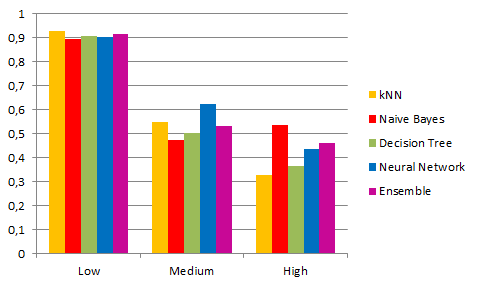
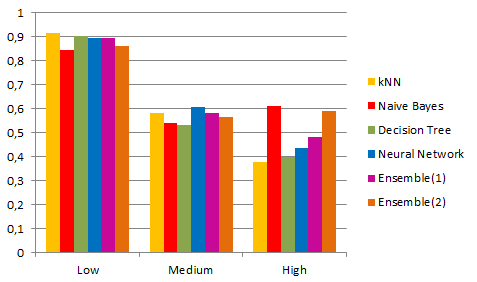
changed charts and tables

diff --git a/presentation/article/experimental-results.tex b/presentation/article/experimental-results.tex
@@ -29,10 +29,10 @@ The results of k-Nearest Neighbors are shown in \fref{tab:mat-knn}.
 	\resizebox{\columnwidth}{!}{
 	\begin{tabular}[c]{c|ccc||c}
 		classified \(\rightarrow\) & \textbf{Low} & \textbf{Medium} & \textbf{High} & Total\\ \hline
-		Low & \textcolor{blue}{1167} & 87 & 5 & 1259 \\
-		Medium & 203 & \textcolor{blue}{287} & 32 & 522 \\
-		High & 23 & 120 & \textcolor{blue}{70} & 213 \\ \hline \hline
-		Total & 1393 & 494 & 107 & 1994 \\
+		Low & \textcolor{blue}{1155} & 101 & 3 & 1259 \\
+		Medium & 181 & \textcolor{blue}{304} & 37 & 522 \\
+		High & 21 & 112 & \textcolor{blue}{80} & 213 \\ \hline \hline
+		Total & 1357 & 517 & 120 & 1994 \\
 	\end{tabular}
 }
 \end{table}
@@ -45,10 +45,10 @@ The results of the Na\"ive Bayes classifier are shown in \fref{tab:mat-nb}.
 	\resizebox{\columnwidth}{!}{
 	\begin{tabular}[c]{c|ccc||c}
 		classified \(\rightarrow\) & \textbf{Low} & \textbf{Medium} & \textbf{High} & Total\\ \hline
-		Low & \textcolor{blue}{1127} & 120 & 12 & 1259 \\
-		Medium & 189 & \textcolor{blue}{248} & 85 & 522 \\
-		High & 23 & 76 & \textcolor{blue}{114} & 213 \\ \hline \hline
-		Total & 1339 & 444 & 181 & 1994 \\
+		Low & \textcolor{blue}{1063} & 183 & 13 & 1259 \\
+		Medium & 137 & \textcolor{blue}{282} & 103 & 522 \\
+		High & 15 & 68 & \textcolor{blue}{130} & 213 \\ \hline \hline
+		Total & 1215 & 533 & 246 & 1994 \\
 	\end{tabular}
 }
 \end{table}
@@ -61,10 +61,10 @@ The confusion matrix of the decision tree is illustrated in \fref{tab:mat-tree}.
 	\resizebox{\columnwidth}{!}{
 	\begin{tabular}[c]{c|ccc||c}
 		classified \(\rightarrow\) & \textbf{Low} & \textbf{Medium} & \textbf{High} & Total\\ \hline
-		Low & \textcolor{blue}{1141} & 208 & 10 & 1259 \\
-		Medium & 200 & \textcolor{blue}{263} & 59 & 522 \\
-		High & 30 & 105 & \textcolor{blue}{78} & 213 \\ \hline \hline
-		Total & 1371 & 476 & 147 & 1994 \\
+		Low & \textcolor{blue}{1135} & 111 & 13 & 1259 \\
+		Medium & 194 & \textcolor{blue}{277} & 51 & 522 \\
+		High & 23 & 105 & \textcolor{blue}{85} & 213 \\ \hline \hline
+		Total & 1352 & 493 & 149 & 1994 \\
 	\end{tabular}
 }
 \end{table}
@@ -77,10 +77,10 @@ The results of the neural network classifier can be found in \fref{tab:mat-nn}.
 	\resizebox{\columnwidth}{!}{
 		\begin{tabular}[c]{c|ccc||c}
 			classified \(\rightarrow\) & \textbf{Low} & \textbf{Medium} & \textbf{High} & Total\\ \hline
-			Low & \textcolor{blue}{1136} & 117 & 6 & 1259 \\
-			Medium & 148 & \textcolor{blue}{326} & 48 & 522 \\
-			High & 10 & 110 & \textcolor{blue}{93} & 213 \\ \hline \hline
-			Total & 1294 & 553 & 147 & 1994 \\
+			Low & \textcolor{blue}{1128} & 128 & 3 & 1259 \\
+			Medium & 168 & \textcolor{blue}{317} & 37 & 522 \\
+			High & 12 & 108 & \textcolor{blue}{93} & 213 \\ \hline \hline
+			Total & 1308 & 553 & 133 & 1994 \\
 		\end{tabular}
 	}
 \end{table}
@@ -94,10 +94,10 @@ The confusion matrix containing the results of the majority voting is given in \
 	\resizebox{\columnwidth}{!}{
 		\begin{tabular}[c]{c|ccc||c}
 			classified \(\rightarrow\) & \textbf{Low} & \textbf{Medium} & \textbf{High} & Total\\ \hline
-			Low & \textcolor{blue}{1153} & 100 & 6 & 1259 \\
-			Medium & 188 & \textcolor{blue}{277} & 57 & 522 \\
-			High & 21 & 94 & \textcolor{blue}{98} & 213 \\ \hline \hline
-			Total & 1362 & 471 & 161 & 1994 \\
+			Low & \textcolor{blue}{1084} & 163 & 12 & 1259 \\
+			Medium & 138 & \textcolor{blue}{295} & 89 & 522 \\
+			High & 16 & 71 & \textcolor{blue}{126} & 213 \\ \hline \hline
+			Total & 1238 & 529 & 227 & 1994 \\
 		\end{tabular}
 	}
 \end{table}
